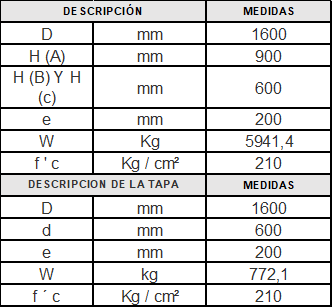
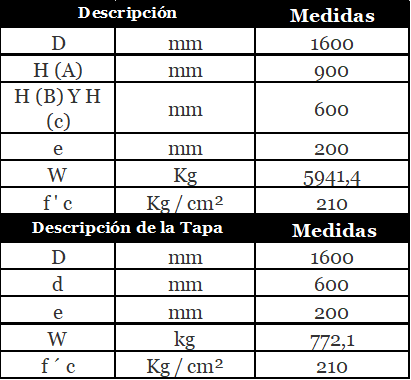
Nuevas imagenes de especificaciones

Changed region(s): [[0.0, 0.0, 1.0, 1.0], [0.3904, 0.263, 0.5105, 0.3214], [0.7508, 0.263, 0.8709, 0.3214]]

diff --git a/src/components/especificaciones/datosProductos.js b/src/components/especificaciones/datosProductos.js
@@ -70,8 +70,8 @@ import tcondominial from "../../images/TablasEspecificaciones/CajaCondominial.pn
 import tespcgras from "../../images/TablasEspecificaciones/BlocGrassMichi.png";
 import tespecgras8 from "../../images/TablasEspecificaciones/BlocGrass8.png";
 import tespecadoquines from "../../images/TablasEspecificaciones/Adoquines.png";
+import tespecductos4v from "../../images/TablasEspecificaciones/DuctoDeCuatroVias.png";
 import tespecducto2v from "../../images/TablasEspecificaciones/DuctoDeDosVias.png";
-import separadores from "../../images/TablasEspecificaciones/Separadores.png";
 import tbuzoncircular from "../../images/TablasEspecificaciones/BuzonCircular.png";
 import tbuzonelectrico from "../../images/TablasEspecificaciones/BuzonElectrico.png";
 import tcajacuadrada from "../../images/TablasEspecificaciones/CajaCuadradaPuestTierra.png";
@@ -195,6 +195,7 @@ const datosProductos = {
         nombre:"DUCTO DE CUADRO VÍAS",
         imagen:electric,
         descripcion:"Los ductos de cuatro vias son esenciales para trabajos con cableado eléctrico y fibra óptica",
+        especificaciones: tespecductos4v,
       },
       producto2:{
         nombre:"DUCTO DE DOS VÍAS",
@@ -235,7 +236,6 @@ const datosProductos = {
         nombre: "Separadores de concreto",
         imagen:sepa,
         descripcion:"Son elementos utilizados en la construcción para mantener las barras de refuerzo alejadas de la superficie del hormigón.",
-        especificaciones: separadores,
       }
 
     },
